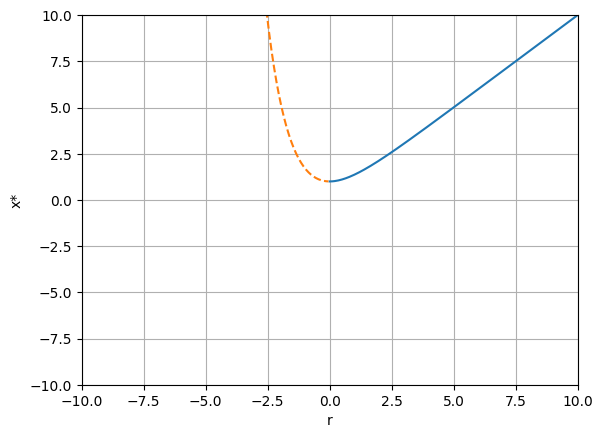
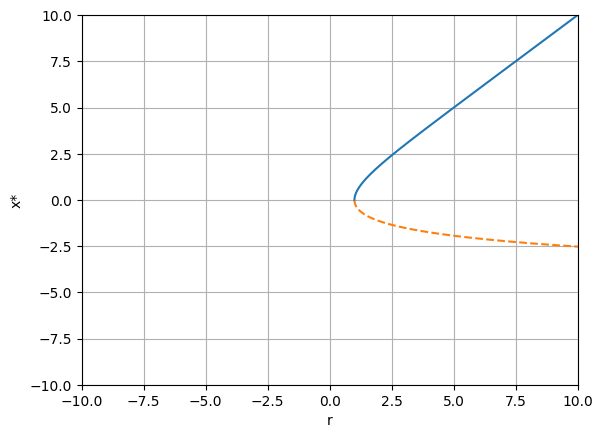
fixed flipped axes

diff --git a/HW1/HW1.py b/HW1/HW1.py
@@ -24,8 +24,8 @@ for i in x_plot:
         x_unstable_plot.append(i)
 
 plt.grid()
-plt.plot(x_stable_plot, r_stable_plot)
-plt.plot(x_unstable_plot, r_unstable_plot, linestyle='dashed')
+plt.plot(r_stable_plot, x_stable_plot)
+plt.plot(r_unstable_plot, x_unstable_plot, linestyle='dashed')
 plt.axis([-10, 10, -10, 10])
 plt.xlabel("r")
 plt.ylabel("x*")
